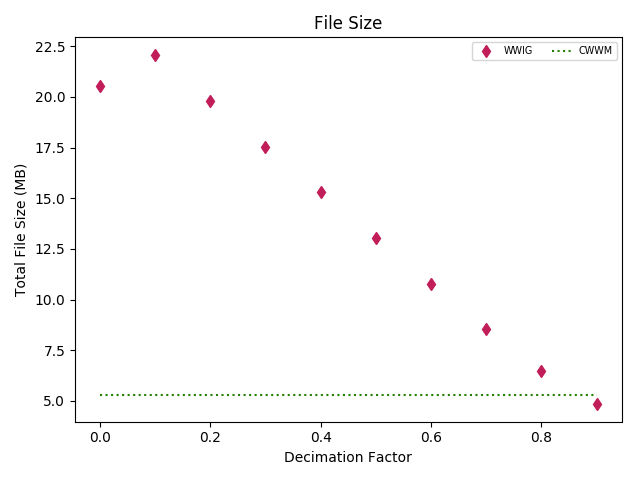
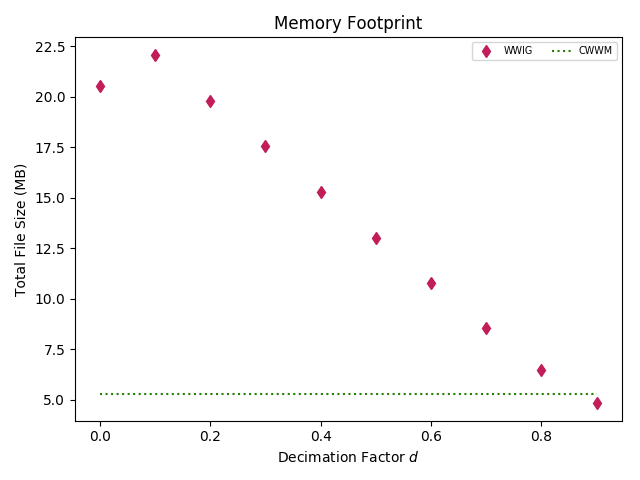
updated plot labels and formatting

diff --git a/performance-analysis/analysis/plot_tally_data.py b/performance-analysis/analysis/plot_tally_data.py
@@ -25,12 +25,12 @@ def plot_tally_cwwm(df_output, refinement, df_measure=None, pltratio=True,
         measurement = 'average coarseness'
         refine_key = 'dc factor'
         output_key = 'decimation'
-        xlabel = 'Triangle Density'
+        xlabel = 'Average Mesh Coarseness'
     elif refinement == 'roughness':
         measurement = 'average roughness'
         refine_key = 'perturbation'
         output_key = 'perturbation'
-        xlabel = 'Surface Roughness'
+        xlabel = 'Average Surface Roughness'
     elif refinement == 'ratio':
         measurement = 'ratio'
         output_key = 'ratio'
@@ -102,10 +102,10 @@ def plot_tally_cwwm(df_output, refinement, df_measure=None, pltratio=True,
                  color=colors['wwig'], label='WWIG/CWWM')
 
     plt.plot([xmin, xmax], ref_tally_plt,
-             color=colors['cwwm'], ls='-', lw=lw, label='WWIG/CWWM$= 1$')
+             color=colors['cwwm'], ls='-', lw=lw, label='E/CWWM $= 1$')
     plt.plot([xmin, xmax], ref_sigma_plt_n,
              color=colors['cwwm'], ls=':', lw=lw,
-             label='WWIG/CWWM $=1 \pm {} \sigma$'.format(n_sigma))
+             label='E/CWWM $=1 \pm {} \sigma$'.format(n_sigma))
     plt.plot([xmin, xmax], ref_sigma_plt_p,
              color=colors['cwwm'], ls=':', lw=lw, label='')
 
@@ -134,12 +134,12 @@ def plot_tally(df_output, refinement, df_measure=None, pltratio=True,
         measurement = 'average coarseness'
         refine_key = 'dc factor'
         output_key = 'decimation'
-        xlabel = 'Triangle Density'
+        xlabel = 'Average Mesh Coarseness'
     elif refinement == 'roughness':
         measurement = 'average roughness'
         refine_key = 'perturbation'
         output_key = 'perturbation'
-        xlabel = 'Surface Roughness'
+        xlabel = 'Average Surface Roughness'
     elif refinement == 'ratio':
         measurement = 'ratio'
         output_key = 'ratio'
@@ -253,7 +253,7 @@ def plot_tally(df_output, refinement, df_measure=None, pltratio=True,
              color=colors['reference'], ls='-', lw=lw, label='E/Ref$=1$')
     plt.plot([xmin, xmax], ref_sigma_plt_n,
              color=colors['reference'], ls=':', lw=lw,
-             label='E/Ref $\pm {} \sigma$'.format(n_sigma))
+             label='E/Ref $= 1 \pm {} \sigma$'.format(n_sigma))
     plt.plot([xmin, xmax], ref_sigma_plt_p,
              color=colors['reference'], ls=':', lw=lw, label='')
 
@@ -282,12 +282,12 @@ def plot_ww_efficiency(df_output, refinement, df_measure=None):
         measurement = 'average coarseness'
         refine_key = 'dc factor'
         output_key = 'decimation'
-        xlabel = 'Triangle Density'
+        xlabel = 'Average Mesh Coarseness'
     elif refinement == 'roughness':
         measurement = 'average roughness'
         refine_key = 'perturbation'
         output_key = 'perturbation'
-        xlabel = 'Surface Roughness'
+        xlabel = 'Average Surface Roughness'
     elif refinement == 'ratio':
         measurement = 'ratio'
         output_key = 'ratio'
@@ -470,7 +470,7 @@ def plot_ww_efficiency(df_output, refinement, df_measure=None):
                fontsize='x-small')
     fig.tight_layout(pad=2.5)
     save_name = 'images/ww_creationloss_{}.png'.format(refinement)
-    plt.savefig(save_name)
+    #plt.savefig(save_name)
 
 
 def plot_fom(df_output, df_measure, refinement):
@@ -478,12 +478,12 @@ def plot_fom(df_output, df_measure, refinement):
         measurement = 'average coarseness'
         refine_key = 'dc factor'
         output_key = 'decimation'
-        xlabel = 'Triangle Density'
+        xlabel = 'Average Mesh Coarseness'
     elif refinement == 'roughness':
         measurement = 'average roughness'
         refine_key = 'perturbation'
         output_key = 'perturbation'
-        xlabel = 'Surface Roughness'
+        xlabel = 'Average Surface Roughness'
 
     # get the output data for total tally
     df_tally = df_output.loc[df_output[output_key].notnull()][
@@ -558,12 +558,12 @@ def plot_relative_error(df_output, refinement, df_measure=None):
         measurement = 'average coarseness'
         refine_key = 'dc factor'
         output_key = 'decimation'
-        xlabel = 'Triangle Density'
+        xlabel = 'Average Mesh Coarseness'
     elif refinement == 'roughness':
         measurement = 'average roughness'
         refine_key = 'perturbation'
         output_key = 'perturbation'
-        xlabel = 'Surface Roughness'
+        xlabel = 'Average Surface Roughness'
     elif refinement == 'ratio':
         measurement = 'ratio'
         output_key = 'ratio'
@@ -717,4 +717,4 @@ if __name__ == '__main__':
     plot_relative_error(df_output, 'coarseness', df_measure=df_coarse)
     plot_relative_error(df_output, 'roughness', df_measure=df_rough)
 
-    #plt.show()
+    plt.show()

diff --git a/performance-analysis/analysis/plot_refinement.py b/performance-analysis/analysis/plot_refinement.py
@@ -27,8 +27,8 @@ cwwm_size = os.path.getsize(fcwwm) / (1024.**2)
 def plot_fsize(df):
     # plot total file size - decimated sizes only
     plt.figure()
-    title = 'File Size'
-    xlabel = 'Decimation Factor'
+    title = 'Memory Footprint'
+    xlabel = r'Decimation Factor $d$'
     ylabel = 'Total File Size (MB)'
 
     plt.plot(df.loc[df['group'] == 'total']['dc factor'],
@@ -51,7 +51,7 @@ def plot_fsize(df):
 def plot_fsize_ratio(df):
     # plot total file size - decimated sizes only
     plt.figure()
-    title = 'File Size'
+    title = 'Memory Footprint'
     xlabel = 'WWIG Surface Spacing Ratio'
     ylabel = 'Total File Size (MB)'
 
@@ -75,9 +75,9 @@ def plot_fsize_ratio(df):
 def plot_average_coarseness(df):
     # just plot averages for each decimation factor
     plt.figure()
-    title = 'Average Coarseness'
-    xlabel = 'Decimation Factor'
-    ylabel = 'Triangle Density'
+    title = 'Mesh Coarseness'
+    xlabel = r'Decimation Factor $d$'
+    ylabel = 'Average Global Coarseness'
 
     plt.plot(df.loc[df['group'] == 'total']['dc factor'],
              df.loc[df['group'] == 'total']['average coarseness'],
@@ -120,9 +120,9 @@ def plot_roughness_per_group(df):
 
 def plot_average_roughness(df):
     plt.figure()
-    title = 'Average Roughness'
-    xlabel = 'Maximum Perturbation'
-    ylabel = 'Roughness'
+    title = 'Surface Roughness'
+    xlabel = r'Maximum Perturbation $\delta$'
+    ylabel = 'Average Global Roughness'
 
     plt.plot(df.loc[df['group'] == 'total']['perturbation'],
              df.loc[df['group'] == 'total']['average roughness'],
